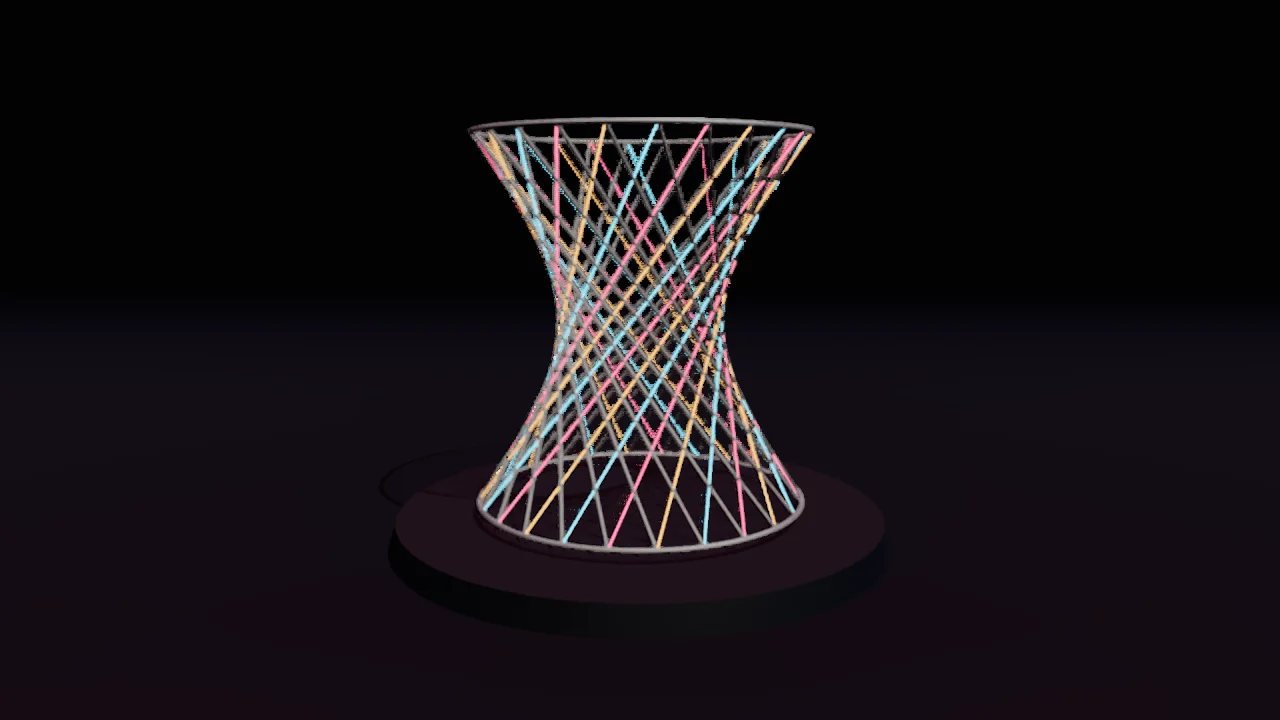
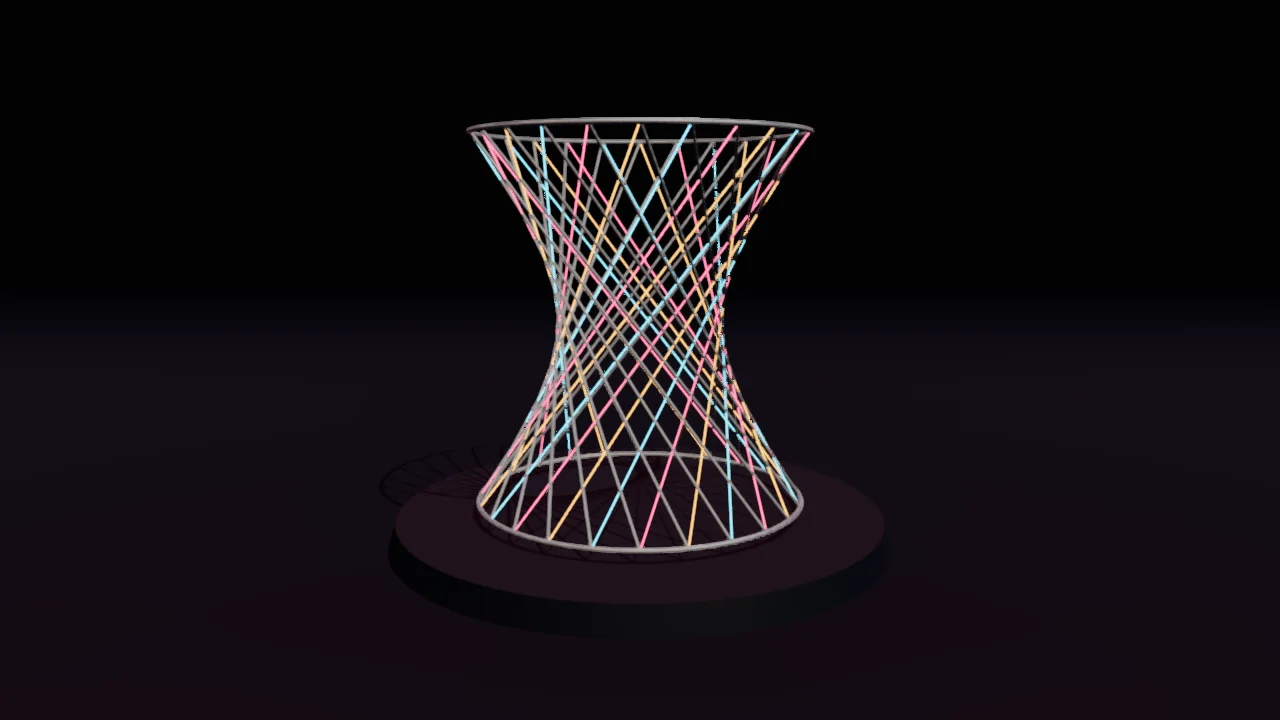
Readme formats

Changed region(s): [[0.3438, 0.1528, 0.6562, 0.7639]]

diff --git a/simulations/noodles/README.md b/simulations/noodles/README.md
@@ -6,9 +6,9 @@ Compute shader strand simulation in TSL. `NoodleSimulation` simulates noodles, r
 
 Each noodle is a chain of particles joined by capsules, simulated in small fixed time steps so it moves the same at any frame rate. After Macklin et al., [_XPBD: Position-Based Simulation of Compliant Constrained Dynamics_](https://matthias-research.github.io/pages/publications/XPBD.pdf) (2016), Han and Harada, [_Tridiagonal Matrix Formulation for Inextensible Hair Strand Simulation_](https://doi.org/10.2312/PE.vriphys.vriphys13.011-016) (2013), Bergou et al., [_Discrete Elastic Rods_](https://www.cs.columbia.edu/cg/rods/) (2008), Ericson, [_Real-Time Collision Detection_](https://realtimecollisiondetection.net/books/rtcd/) (2005), Tonge et al., [_Mass Splitting for Jitter-Free Parallel Rigid Body Simulation_](https://doi.org/10.1145/2185520.2185601) (2012), Wu et al., [_A Safe and Fast Repulsion Method for GPU-based Cloth Self Collisions_](https://wanghmin.github.io/publication/wu-2020-sfr) (2020), and Chen et al., [_Offset Geometric Contact_](https://graphics.cs.utah.edu/research/projects/ogc/) (2025).
 
-<a href="https://marcofugaro.github.io/three-advanced-techniques/simulations/noodles/"><img src="index.webp" alt="Noodles demo" width="400"></a>
+<a href="https://marcofugaro.github.io/three-advanced-techniques/simulations/noodles/"><img src="index.webp" alt="Noodles demo" width="600"></a>
 
-[Live](https://marcofugaro.github.io/three-advanced-techniques/simulations/noodles/)
+#### Live link: https://marcofugaro.github.io/three-advanced-techniques/simulations/noodles/
 
 ### Usage
 
@@ -46,9 +46,9 @@ renderer.setAnimationLoop((time) => {
 
 Worms are noodles that move themselves: they only add pushes and muscle bends, so the noodle physics, length, bending and collisions, always wins. Everything runs on the GPU, and nothing is read back to the CPU.
 
-<a href="https://marcofugaro.github.io/three-advanced-techniques/simulations/noodles/worms.html"><img src="worms.webp" alt="Worms demo" width="400"></a>
+<a href="https://marcofugaro.github.io/three-advanced-techniques/simulations/noodles/worms.html"><img src="worms.webp" alt="Worms demo" width="600"></a>
 
-[Live](https://marcofugaro.github.io/three-advanced-techniques/simulations/noodles/worms.html)
+#### Live link: https://marcofugaro.github.io/three-advanced-techniques/simulations/noodles/worms.html
 
 ### Usage
 

diff --git a/rendering/ambient-occlusion/README.md b/rendering/ambient-occlusion/README.md
@@ -2,9 +2,9 @@
 
 A fast version of GTAO. XeGTAO's ground-truth ambient occlusion, at half resolution, denoised and accumulated over frames. Creases, contact and the gaps between things darken; open surfaces stay clean, with no noise left on them. After Intel's [XeGTAO](https://github.com/GameTechDev/XeGTAO) and Jimenez et al., [_Practical Real-Time Strategies for Accurate Indirect Occlusion_](https://research.activision.com/publications/archives/practical-real-time-strategies-for-accurate-indirect-occlusion) (2016), accumulated as in Schied et al., [_Spatiotemporal Variance-Guided Filtering_](https://research.nvidia.com/publication/2017-07_spatiotemporal-variance-guided-filtering-real-time-reconstruction-path-traced) (2017).
 
-<a href="https://marcofugaro.github.io/three-advanced-techniques/rendering/ambient-occlusion/"><img src="index.webp" alt="Ambient occlusion demo" width="400"></a>
+<a href="https://marcofugaro.github.io/three-advanced-techniques/rendering/ambient-occlusion/"><img src="index.webp" alt="Ambient occlusion demo" width="600"></a>
 
-[Live](https://marcofugaro.github.io/three-advanced-techniques/rendering/ambient-occlusion/)
+#### Live link: https://marcofugaro.github.io/three-advanced-techniques/rendering/ambient-occlusion/
 
 ## Usage
 

diff --git a/rendering/motion-blur/README.md b/rendering/motion-blur/README.md
@@ -2,9 +2,9 @@
 
 Object and camera motion blur as a tile-based reconstruction filter, after McGuire et al., [_A Reconstruction Filter for Plausible Motion Blur_](https://dblp.uni-trier.de/rec/conf/si3d/McGuireHBO12.html) (2012), Guertin et al., [_A Fast and Stable Feature-Aware Motion Blur Filter_](https://doi.org/10.2312/hpg.20141093) (2014), Jimenez, [_Next Generation Post Processing in Call of Duty: Advanced Warfare_](https://www.iryoku.com/next-generation-post-processing-in-call-of-duty-advanced-warfare/) (2014).
 
-<a href="https://marcofugaro.github.io/three-advanced-techniques/rendering/motion-blur/"><img src="index.webp" alt="Motion blur demo" width="400"></a>
+<a href="https://marcofugaro.github.io/three-advanced-techniques/rendering/motion-blur/"><img src="index.webp" alt="Motion blur demo" width="600"></a>
 
-[Live](https://marcofugaro.github.io/three-advanced-techniques/rendering/motion-blur/)
+#### Live link: https://marcofugaro.github.io/three-advanced-techniques/rendering/motion-blur/
 
 ## Usage
 

diff --git a/rendering/taau/README.md b/rendering/taau/README.md
@@ -2,9 +2,9 @@
 
 Temporal anti-aliasing upscaling: the scene renders jittered, at or below the output's resolution, and each frame joins the history into one stable, anti-aliased image at the output's. Thin features stay locked, edges stay smooth. After Karis, [_High Quality Temporal Supersampling_](https://advances.realtimerendering.com/s2014/) (2014), and AMD's [FidelityFX Super Resolution 2](https://github.com/GPUOpen-Effects/FidelityFX-FSR2) (2022).
 
-<a href="https://marcofugaro.github.io/three-advanced-techniques/rendering/taau/"><img src="index.webp" alt="TAAU demo" width="400"></a>
+<a href="https://marcofugaro.github.io/three-advanced-techniques/rendering/taau/"><img src="index.webp" alt="TAAU demo" width="600"></a>
 
-[Live](https://marcofugaro.github.io/three-advanced-techniques/rendering/taau/)
+#### Live link: https://marcofugaro.github.io/three-advanced-techniques/rendering/taau/
 
 ## Use
 

diff --git a/rendering/screen-space-reflections/README.md b/rendering/screen-space-reflections/README.md
@@ -2,9 +2,9 @@
 
 Cheap Screen-space Reflections found by Newton's method on the depth buffer instead of a ray march, after Mayer, Assarsson and Sintorn, [_Ultrafast Screen-Space Refractions and Caustics via Newton's Method_](https://jcgt.org/published/0015/01/03/paper.pdf) (2026).
 
-<a href="https://marcofugaro.github.io/three-advanced-techniques/rendering/screen-space-reflections/"><img src="index.webp" alt="Screen-space reflections demo" width="400"></a>
+<a href="https://marcofugaro.github.io/three-advanced-techniques/rendering/screen-space-reflections/"><img src="index.webp" alt="Screen-space reflections demo" width="600"></a>
 
-[Live](https://marcofugaro.github.io/three-advanced-techniques/rendering/screen-space-reflections/)
+#### Live link: https://marcofugaro.github.io/three-advanced-techniques/rendering/screen-space-reflections/
 
 ## Usage
 

diff --git a/rendering/bloom/README.md b/rendering/bloom/README.md
@@ -2,9 +2,9 @@
 
 The classic mip-chain bloom of the Unreal Bloom, in 8 passes instead of 12, with its wide mips at a quarter of the usual pixels.
 
-<a href="https://marcofugaro.github.io/three-advanced-techniques/rendering/bloom/"><img src="index.webp" alt="Bloom demo" width="400"></a>
+<a href="https://marcofugaro.github.io/three-advanced-techniques/rendering/bloom/"><img src="index.webp" alt="Bloom demo" width="600"></a>
 
-[Live](https://marcofugaro.github.io/three-advanced-techniques/rendering/bloom/)
+#### Live link: https://marcofugaro.github.io/three-advanced-techniques/rendering/bloom/
 
 ## Usage
 
